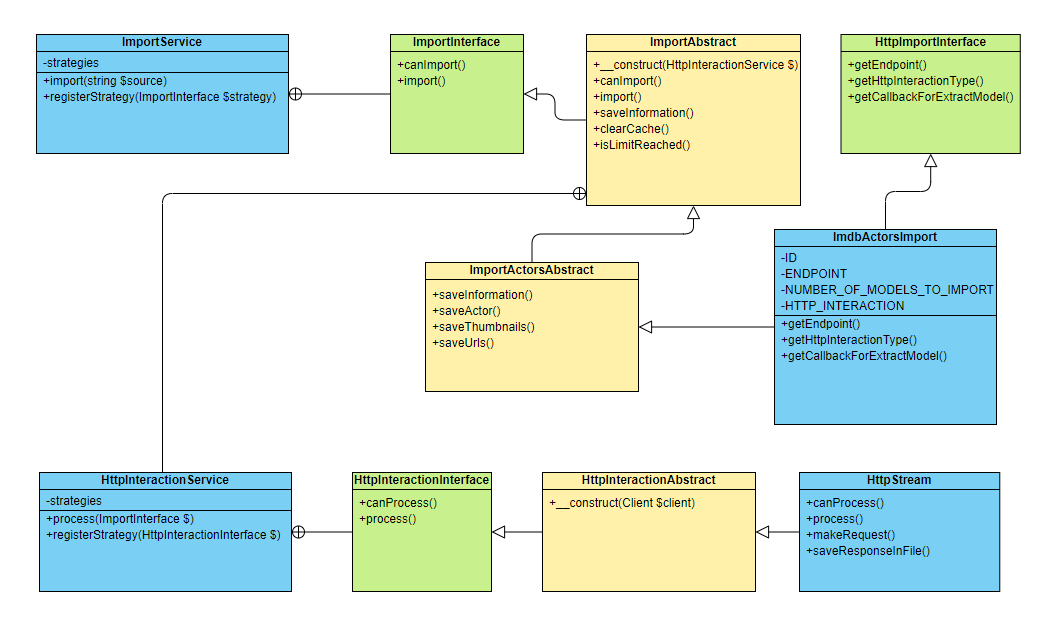
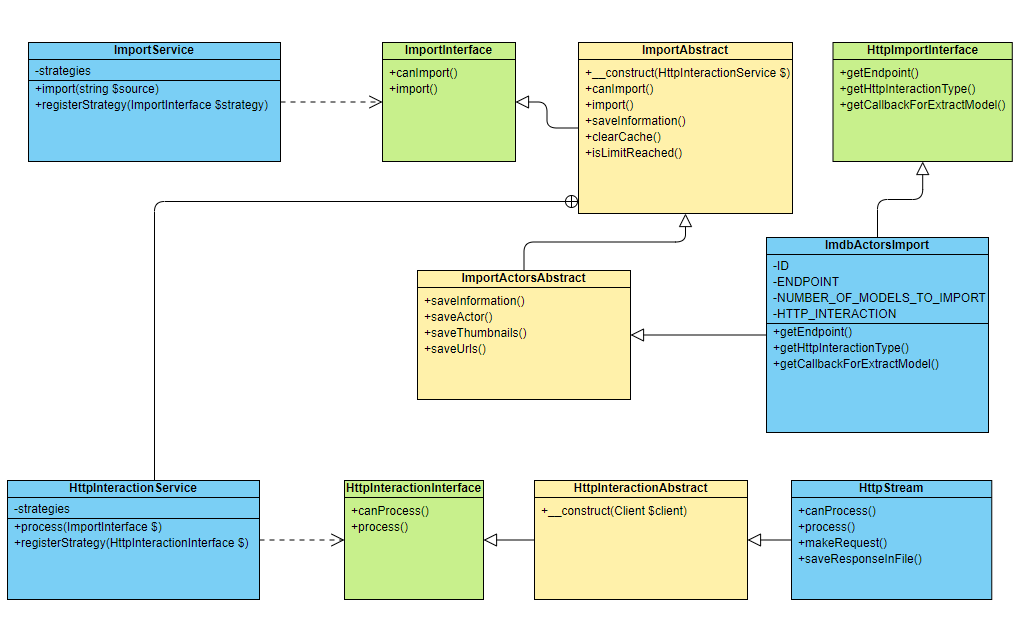
Update UML + test

Changed region(s): [[0.0304, 0.0307, 1.0, 0.706], [0.0, 0.7367, 0.9716, 0.9822], [0.8501, 0.3069, 0.8805, 0.3376]]

diff --git a/tests/Unit/PornhubActorsApiTest.php b/tests/Unit/PornhubActorsApiTest.php
@@ -2,7 +2,8 @@
 
 namespace Tests\Unit;
 
-use App\Services\PornhubActorsImport;
+use App\Services\Import\HttpInteractionService;
+use App\Services\Import\Providers\PornhubActorsImport;
 use Tests\TestCase;
 use GuzzleHttp\Client;
 
@@ -11,23 +12,24 @@ class PornhubActorsApiTest extends TestCase
     public function testImport()
     {
         $client = new Client();
-        $pornhubResource = \Mockery::mock('App\Services\PornhubActorsImport[getContentFromEndpoint,saveResponseInFile,saveActors]', [$client])
+        $httpInteractionService = \Mockery::mock(HttpInteractionService::class);
+        $service = \Mockery::mock('App\Services\Import\Providers\PornhubActorsImport[saveInformation]', [$client, $httpInteractionService])
             ->makePartial()
             ->shouldAllowMockingProtectedMethods();
 
-        $pornhubResource->shouldReceive('getContentFromEndpoint')
+        $httpInteractionService->shouldReceive('import')
             ->once()
-            ->shouldReceive('saveResponseInFile')
-            ->once()
-            ->shouldReceive('saveActors')
+            ->andReturn(['text']);
+
+        $service->shouldReceive('saveInformation')
             ->once();
-        $pornhubResource->import();
+        $service->import();
     }
 
     public function testCanImport()
     {
         $client = new Client();
-        $pornhubResource = \Mockery::mock('App\Services\PornhubActorsImport[getContentFromEndpoint,saveResponseInFile,saveActors]', [$client])
+        $pornhubResource = \Mockery::mock('App\Services\Import\Providers\PornhubActorsImport[]', [$client])
             ->makePartial()
             ->shouldAllowMockingProtectedMethods();
 

diff --git a/README.md b/README.md
@@ -25,3 +25,7 @@ Also the ENDPOINT from this project is treated as one of many possible providers
 ## UML for Import and HTTP interaction
 
 <img src="https://github.com/alexandruu/mindgeek/blob/master/UML.png" alt="UML">
+
+## Tests
+
+Yes, I've wrote some tests.
